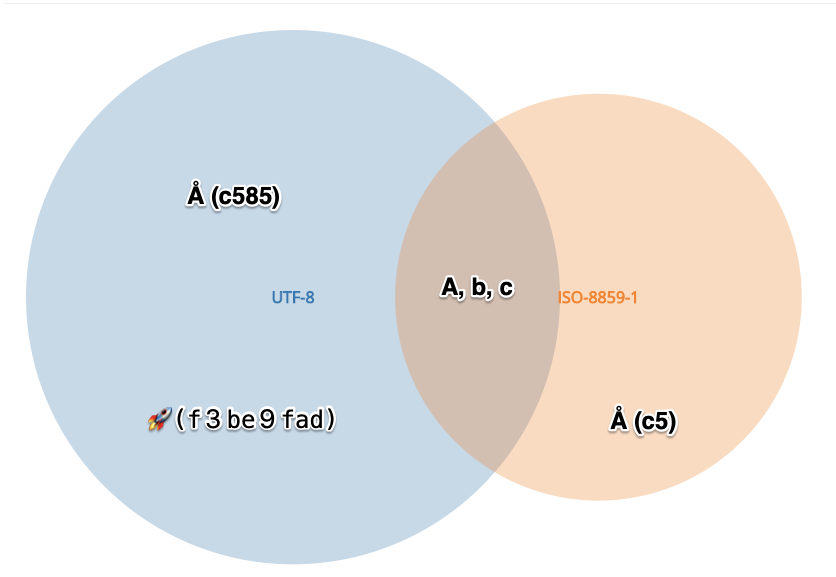
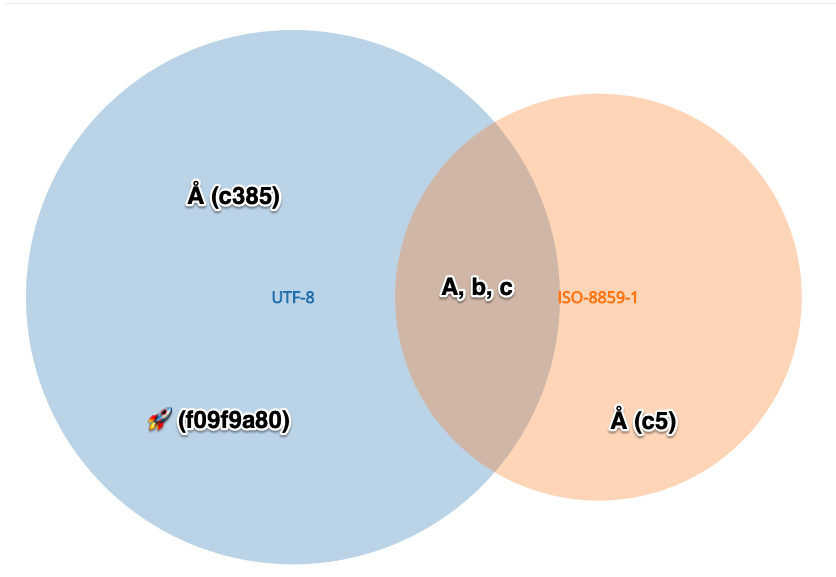
Final version

diff --git a/2020-03-17-invalid-byte-sequences/post.md b/2020-03-17-invalid-byte-sequences/post.md
@@ -1,19 +1,86 @@
-Solving "UTF-8 Invalid Byte Sequence" errors in ruby
+---
+title: Solving "invalid byte sequence in UTF-8" errors in ruby
+published: false
+description: Learn what "UTF-8 byte sequences" are, why they can be invalid and how to solve this problem in Ruby.
+tags: ruby rails tutorial
+---
 
-If you've landed here it means you've been hit by this message in your program. This is one of most common headaches that the data submitted by our lovely users give us.
+If you've landed here it means you've been hit by this message in your program. In this post I'll quickly introduce you to what "UTF-8 byte sequences" are, why they can be invalid and how to solve this problem in Ruby.
 
 ### Short introduction to UTF-8 and other encodings
-UTF-8 is, as explained in [Wikipedia](https://en.wikipedia.org/wiki/UTF-8), is a set codepoints (in simple words: numbers representing characters or formatting). Every character in UTF-8 is a *sequence* of 1 up to 4 bytes.
+UTF-8 is, as explained in [Wikipedia](https://en.wikipedia.org/wiki/UTF-8), is a set codepoints (in simple words: numbers representing characters). Every character in UTF-8 is a *sequence* of 1 up to 4 bytes.
 
 Apart from UTF-8 there are also other encodings like *ISO-8859-1* or *Windows-1252* - you may have seen these names before in your programming career. These encodings cover a big set of characters, including special latin characters etc.
 
 Now, even though UTF-8 covers a huge set of characters as well it is not 100% compatible with the above mentioned encodings. Take a look at the following picture:
  - Both UTF-8 and ISO-8859-1 are ASCII compatible - the include the same codepoints for digits and latin alphabet
  - UTF-8 includes characters not present in ISO-8859-1, like the rocket emoji 🚀
- - Both UTF-8 and ISO-8859-1 include "ó" characters, but these letters are defined using different codepoints - *c585* in UTF-8 and *c5* in ISO-8859-1
+ - Both UTF-8 and ISO-8859-1 include "Å" characters, but these letters are defined using different codepoints - *c385* in UTF-8 and *c5* in ISO-8859-1
 
-![enter image description here]([https://user-images.githubusercontent.com/5732023/76835014-76d9f000-682e-11ea-8854-17874dd824d9.png](https://user-images.githubusercontent.com/5732023/76835014-76d9f000-682e-11ea-8854-17874dd824d9.png))
+![enter image description here](https://user-images.githubusercontent.com/5732023/77397158-5cab8f00-6da5-11ea-85a4-55deac96f280.png)
 *Encodings compatibility*
 
 #### Why does an UTF-8 invalid byte sequence error happen?
-By default
+Ruby's default encoding since 2.0 is UTF-8. This means that Ruby will treat any string you input as an UTF-8 encoded string unless you tell it explicitly that it's encoded differently.
+
+Let's use the `Å` character from the introductory diagram to present this problem.
+Imagine you have a file `file.txt` containing a following string: `"vandflyver \xC5rhus"`.  As you already know `C5` codepoint corresponds to `Å` in *ISO-8859-1* and isn't present in UTF-8 encoding. Ruby however doesn't know that the original encoding of the file is ISO-8859-1 and will by default interpret it as UTF-8.
+
+So, the following operation will result in the infamous "UTF-8 Invalid byte sequence":
+```ruby
+irb(main):079:0> File.write("file.txt", "vandflyver \xC5rhus")
+=> 16
+irb(main):080:0> open("file.txt", "r") { |io| io.read.split }
+Traceback (most recent call last):
+        7: from /Users/bajena/.rbenv/versions/2.6.1/bin/irb:23:in `<main>'
+        6: from /Users/bajena/.rbenv/versions/2.6.1/bin/irb:23:in `load'
+        5: from /Users/bajena/.rbenv/versions/2.6.1/lib/ruby/gems/2.6.0/gems/irb-1.0.0/exe/irb:11:in `<top (required)>'
+        4: from (irb):80
+        3: from (irb):80:in `open'
+        2: from (irb):80:in `block in irb_binding'
+        1: from (irb):80:in `split'
+ArgumentError (invalid byte sequence in UTF-8)
+```
+
+The "invalid UTF-8 byte sequence" here is our "Å" (C5) character as it's not present in UTF-8. Fortunately there are a few ways to solve this problem.
+
+#### Solution 1 - Provide a source encoding
+If you know the encoding in which the file was originally written then all you have to do is to provide the encoding name when reading the input file. Ruby will automatically handle the character conversion for you:
+```ruby
+irb(main):098:0> s = open("file.txt", "r:ISO-8859-1:UTF-8") { |io| io.read.split }
+=> ["vandflyver", "Århus"]
+irb(main):099:0> s[1][0].unpack("H*")
+=> ["c385"]
+```
+
+In the last line I've used [String.unpack](https://ruby-doc.org/core-2.7.0/String.html#method-i-unpack) method to print the converted character's codepoint. As you can see it got correctly converted from `C5` to `C385` 🎉
+
+#### Solution 2 - `String.encode` method
+In many cases you won't be that lucky to know the original encoding of the file. In this case [String.encode](https://ruby-doc.org/core-2.7.0/String.html#method-i-encode) method comes in handy. You can use it to skip invalid UTF-8 characters or replace them with a string of your choice.
+
+Check out the following examples:
+```ruby
+irb(main):102:0> open("file.txt", "r") { |io| io.read.encode("UTF-8", invalid: :replace) }
+=> "vandflyver �rhus"
+irb(main):103:0> open("file.txt", "r") { |io| io.read.encode("UTF-8", invalid: :replace, replace: "") }
+=> "vandflyver rhus"
+```
+
+May not be beautiful, but it's still better than crashing the app, right?
+
+#### Solution 3 - Detect source encoding
+In case you don't know the source encoding and don't want to skip the invalid characters you can use a character encoding detection gem called [charlock_holmes](https://github.com/brianmario/charlock_holmes).
+It'll analyze the string and provide you with the most probable source encoding and guess confidence (also a language code as a bonus :P).
+
+Check it out in action:
+```ruby
+irb(main):015:0> s = open("file.txt", "r") { |io| io.read }
+=> "vandflyver \xC5rhus"
+irb(main):016:0> d = CharlockHolmes::EncodingDetector.detect(s)
+=> {:type=>:text, :encoding=>"ISO-8859-1", :ruby_encoding=>"ISO-8859-1", :confidence=>70, :language=>"nl"}
+irb(main):017:0> s.encode("UTF-8", d[:encoding], invalid: :replace, replace: "")
+=> "vandflyver Århus"
+```
+
+#### Summary
+First of all I hope that this post helped you to solve the Ruby issue you had. On the other hand I'm sure that also you've learned something useful. String encodings can sometimes be really f***ed up, so it's really worth knowing what's going on under the hood.
